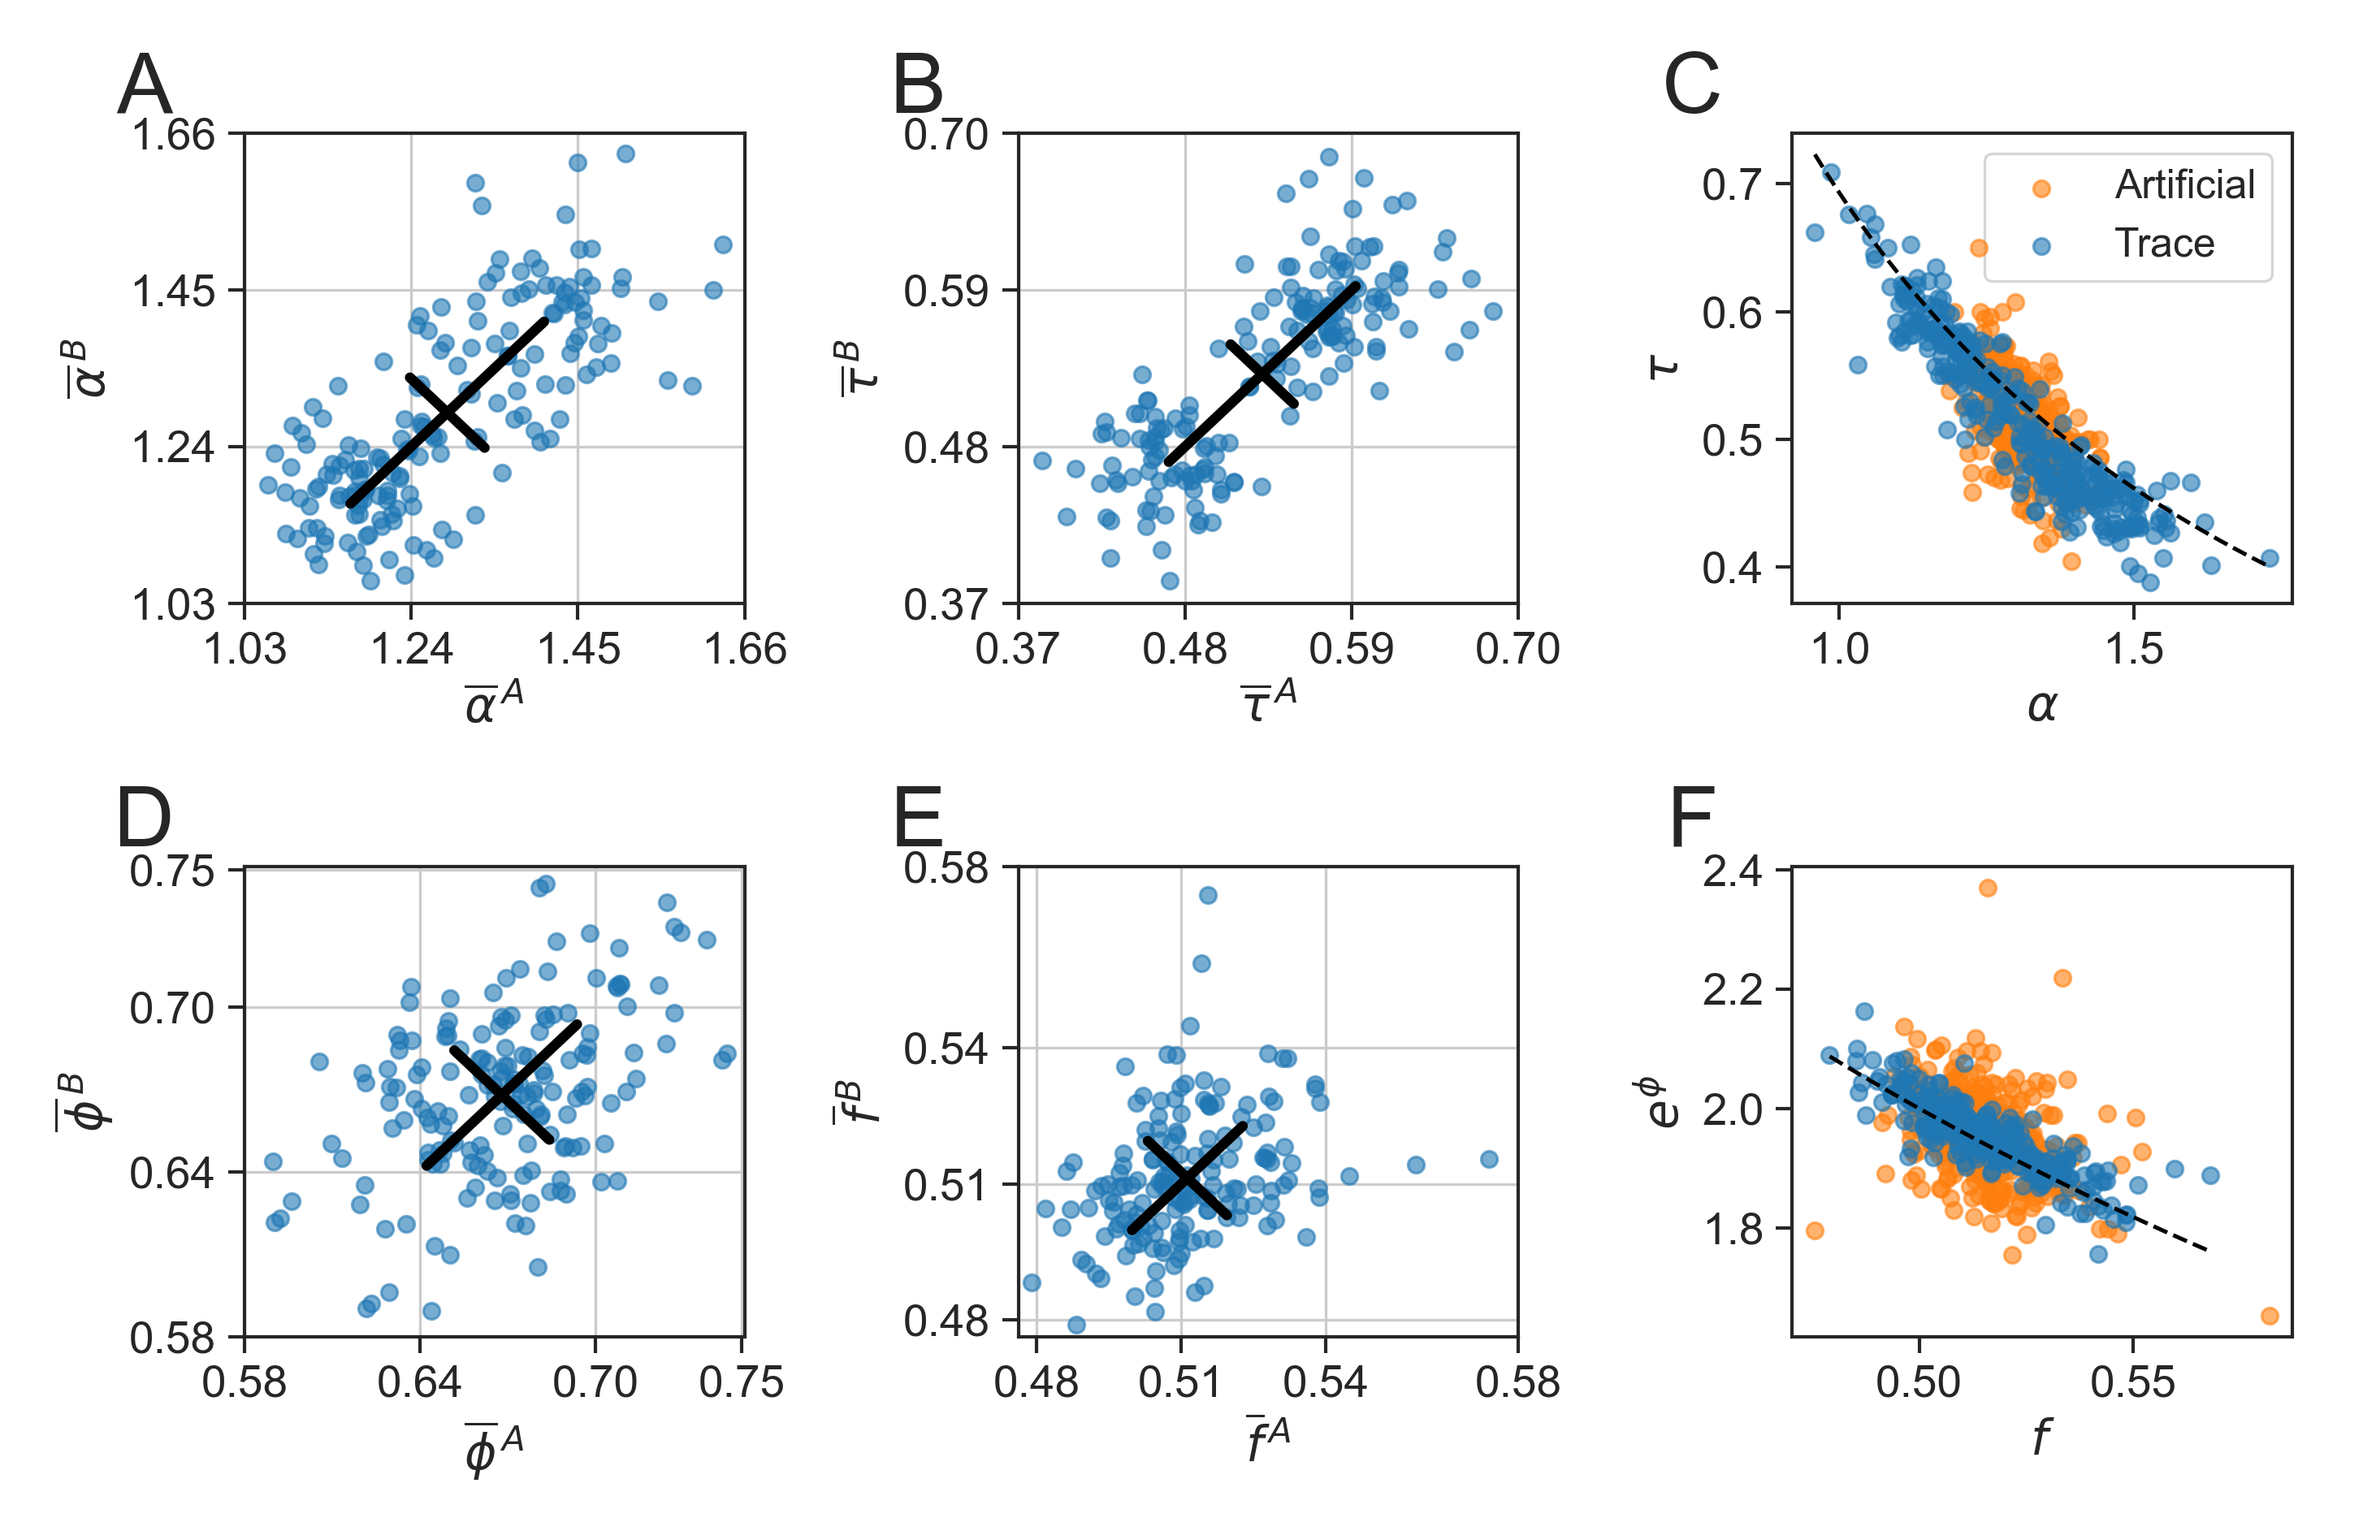
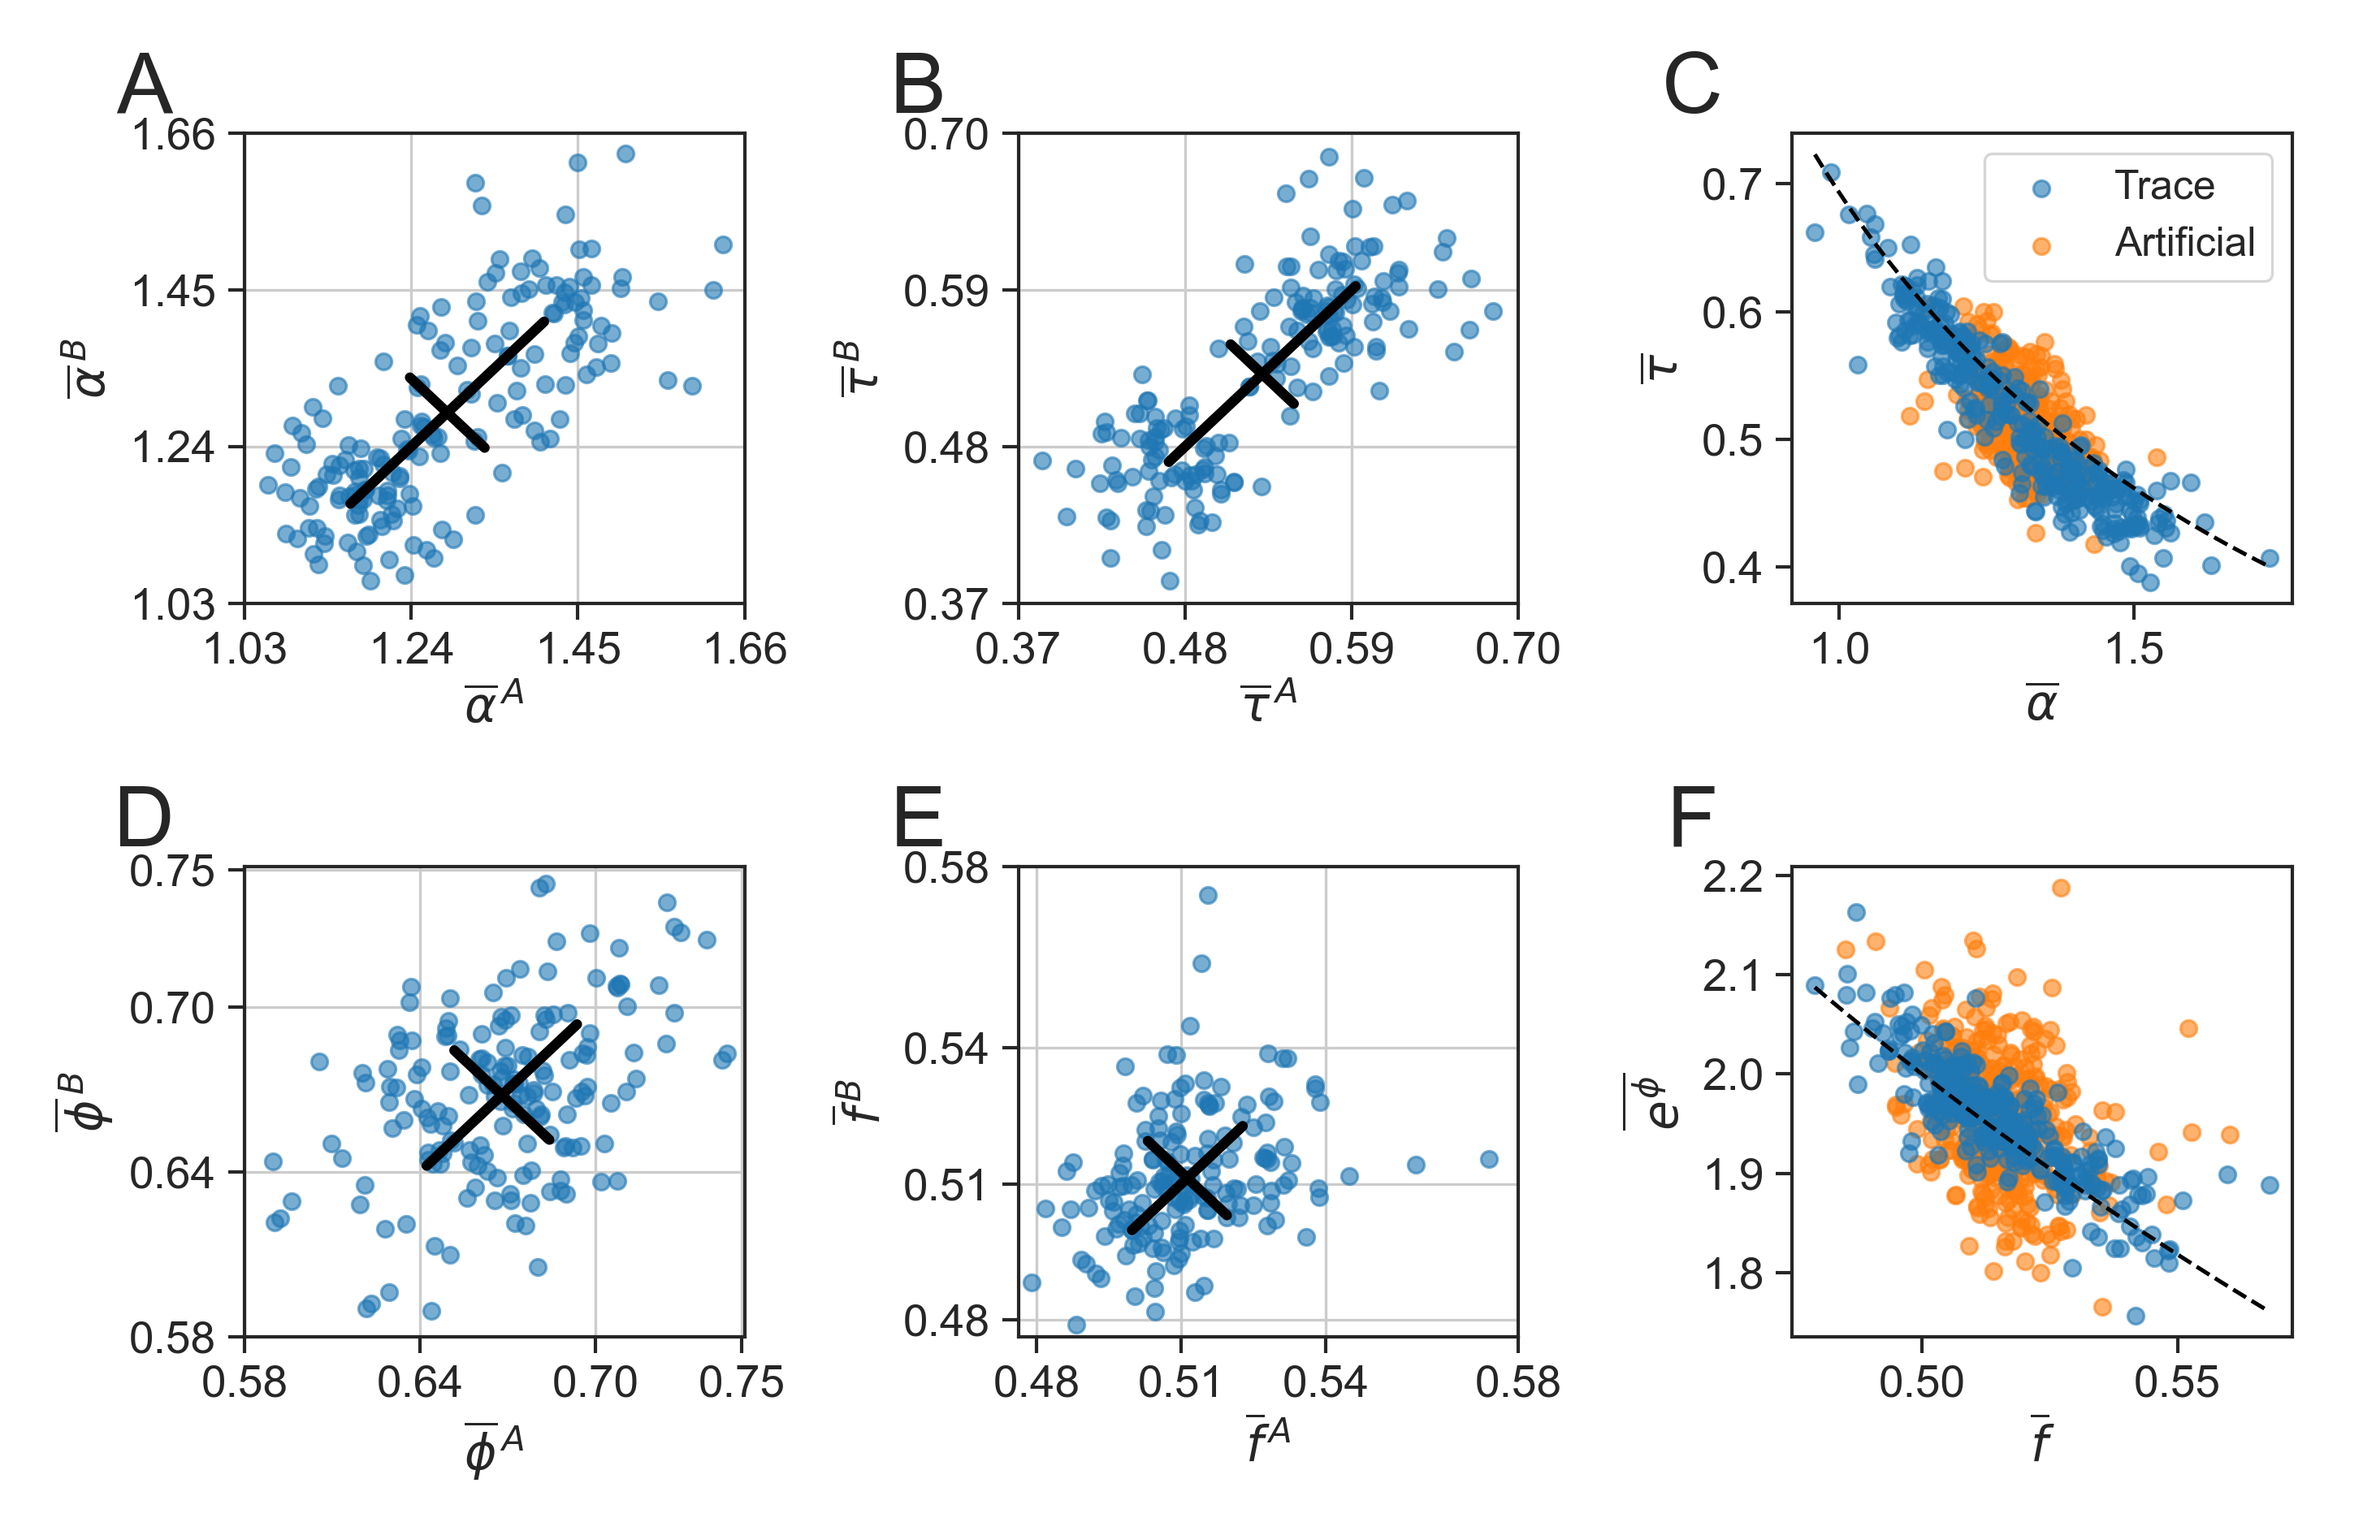
11/3/21

diff --git a/MicroenvironmentAverageBehavior/alpha_tau_code.py b/MicroenvironmentAverageBehavior/alpha_tau_code.py
@@ -179,11 +179,6 @@ axes[1, 0].set_title('D', x=-.2, fontsize='xx-large')
 axes[1, 1].set_title('E', x=-.2, fontsize='xx-large')
 axes[1, 2].set_title('F', x=-.2, fontsize='xx-large')
 
-# axes[0, 2].set_xlim([.76, 2])
-# axes[0, 2].set_ylim([.18, .95])
-# axes[1, 2].set_xlim([.4, .63])
-# axes[1, 2].set_ylim([1.06, 2.96])
-
 kde_scatterplot_variables(
     df=ta.copy(),
     var1='growth_rate',
@@ -216,13 +211,13 @@ kde_scatterplot_variables(
 
 # handles = [mpatches.Patch(color=cmap[1], label='Artificial'), mpatches.Patch(color=cmap[0], label='Trace')]
 handles, labels = axes[0, 2].get_legend_handles_labels()
-axes[0, 2].legend(handles, labels, fontsize='small')  # , markerscale=.5
+axes[0, 2].legend(handles[::-1], labels[::-1], fontsize='small')  # , markerscale=.5
 
 plot_pair_scatterplots(pu, 'generationtime', 'generationtime', axes[0, 1])
 plot_pair_scatterplots(pu, 'growth_rate', 'growth_rate', axes[0, 0])
 plot_pair_scatterplots(pu, 'fold_growth', 'fold_growth', axes[1, 0])
 plot_pair_scatterplots(pu, 'division_ratio', 'division_ratio', axes[1, 1])  # , sym1=r'$\overline{\ln(f)}^{\, A}$', sym2=r'$\overline{\ln(f)}^{\, B}$')
 # plt.legend()
-# plt.savefig('alpha_tau.png', dpi=300)
+plt.savefig('alpha_tau.png', dpi=300)
 plt.show()
 plt.close()

diff --git a/SizeVariablesAverageBehavior/size_variables_code.py b/SizeVariablesAverageBehavior/size_variables_code.py
@@ -221,11 +221,7 @@ kde_scatterplot_variables(
     pu=pu
 )
 
-# handles = [mpatches.Patch(color=cmap[1], label='Artificial'), mpatches.Patch(color=cmap[0], label='Trace')]
-# handles, labels = axes[0].get_legend_handles_labels()
-# axes[0].legend(handles, labels, fontsize='small')  # , markerscale=.5
-
 # plt.legend()
 # plt.savefig('size_variables.png', dpi=300)
-plt.show()
+plt.show()  # Need to adjust the axis limits manually
 plt.close()
